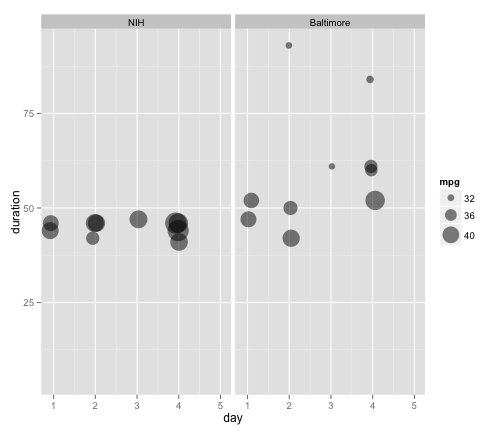
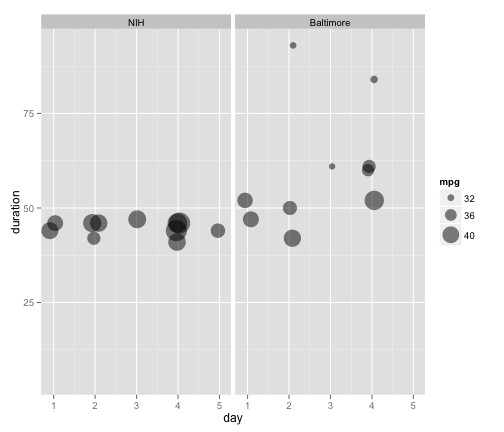
update from H drive (3)

diff --git a/readMe.md b/readMe.md
@@ -1,8 +1,11 @@
+---
+output:
+  html_document:
+    keep_md: yes
+---
 Commute:  Live in Baltimore, Work at the NIH
 ========================================================
 
-Looks like my commute to the NIH is more consistent than the ride home to Baltimore, and more fuel efficient too.
+Looks like my commute to the NIH is more consistent than the ride home to Baltimore, and more fuel efficient too.  On the x-axis, 1 is Monday and 5 is Friday.
 
 ![plot of chunk unnamed-chunk-1](figure/unnamed-chunk-1.png) 
-
-
